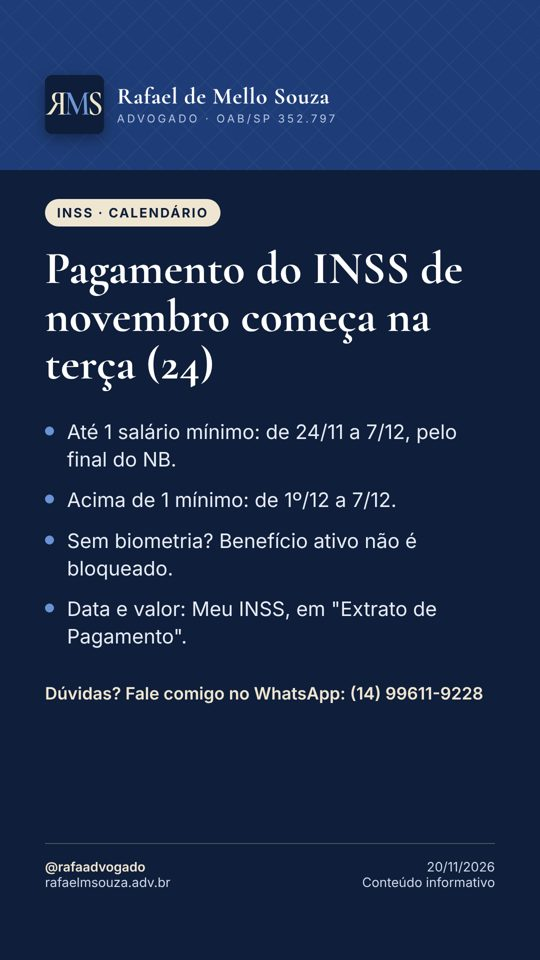
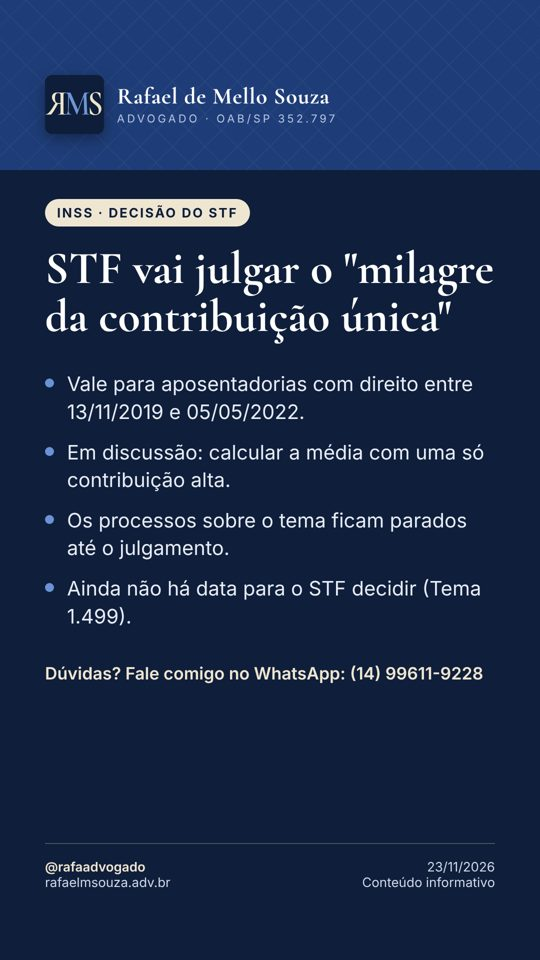
Notícia 23/11/2026: STF vai julgar o milagre da contribuição única (Tema 1.499)
Claude-Session: https://claude.ai/code/session_01TjRXWga78bz1b3B69nQ2d7

Changed region(s): [[0.0889, 0.1875, 0.9185, 0.75]]

diff --git a/noticias/index.html b/noticias/index.html
@@ -14,4 +14,4 @@ h1{font-family:Georgia,serif;color:#0f1e3a;font-size:28px;line-height:1.25;margi
 .btn.s{background:#fff;color:#0f1e3a;border:1px solid #e3dccb}.lista a{text-decoration:none}.lista div{border-top:1px solid #e3dccb;padding:14px 0}.lista div:first-child{border-top:0}
 footer{text-align:center;font-size:13px;color:#5d6676;padding:10px 16px 30px}</style></head><body>
 <header><a href="/"><img src="/icon.png" alt=""></a><a href="/"><div class="n">Rafael de Mello Souza</div><div class="o">ADVOGADO · OAB/SP 352.797</div></a></header>
-<nav><a href="/#inicio">Início</a><a href="/#quem-somos">Quem somos</a><a href="/noticias/">Notícias</a><a href="/#consulta">Consultar processo</a></nav><main><div class="card"><h1>Notícias</h1><p class="sub">INSS e Direito Previdenciário, toda segunda, quarta e sexta.</p><div class="lista"><div><span class="d">20/11/2026</span><h2><a href="/noticias/2026-11-20-inss-calendario-pagamento-novembro-biometria.html">Pagamento do INSS de novembro começa na terça (24); falta de biometria não bloqueia benefício</a></h2><span class="sub">A folha de novembro do INSS começa a ser paga na terça-feira, 24/11, e vai até 7/12. Para quem recebe até um salário mínimo, a data segue o último número do benefício antes do…</span></div><div><span class="d">19/11/2026</span><h2><a href="/noticias/2026-11-19-inss-exigencia-30-dias-portaria-1363.html">INSS: quem recebe exigência tem 30 dias para entregar documentos</a></h2><span class="sub">A Portaria DIRBEN/INSS nº 1.363/2026, publicada no Diário Oficial em 16/11/2026 e já em vigor, deixou claro o prazo para cumprir as exigências do INSS: quando o instituto pede um…</span></div><div><span class="d">18/11/2026</span><h2><a href="/noticias/2026-11-18-aposentadoria-regras-transicao-2027.html">Aposentadoria do INSS: duas regras de transição ficam mais exigentes em 2027</a></h2><span class="sub">Em 1º de janeiro de 2027, duas regras de transição da Reforma da Previdência sobem de patamar. Na regra dos pontos (idade + tempo de contribuição), a exigência passa de 93 para 94…</span></div><div><span class="d">17/11/2026</span><h2><a href="/noticias/2026-11-17-bpc-nao-pode-contribuir-facultativo-baixa-renda.html">Quem recebe BPC não pode pagar o INSS como baixa renda (5%)</a></h2><span class="sub">Quem recebe o BPC/LOAS pode contribuir para o INSS, mas não na modalidade de facultativo de baixa renda, com alíquota de 5%. Em 16/10/2026, a Turma Regional de Uniformização dos…</span></div><div><span class="d">16/11/2026</span><h2><a href="/noticias/2026-11-16-14-salario-inss-nao-aprovado-2026.html">14º salário do INSS: não há pagamento previsto em 2026</a></h2><span class="sub">Mensagens nas redes sociais falam em um &quot;14º salário&quot; para aposentados e pensionistas ainda neste ano, mas não existe lei que autorize esse pagamento. Há projetos sobre o tema na…</span></div><div><span class="d">13/11/2026</span><h2><a href="/noticias/2026-11-13-13-salario-proporcional-novos-beneficios-inss.html">Começou a receber do INSS depois de abril? O 13º vem na folha de novembro</a></h2><span class="sub">Quem passou a receber aposentadoria, pensão por morte, auxílio-acidente ou auxílio por incapacidade temporária a partir de maio de 2026 não entrou na antecipação do 13º feita em…</span></div><div><span class="d">12/11/2026</span><h2><a href="/noticias/2026-11-12-stf-vai-julgar-calculo-aposentadoria-pcd-tema-1497.html">STF vai julgar o cálculo da aposentadoria da pessoa com deficiência</a></h2><span class="sub">O STF reconheceu, por unanimidade, a repercussão geral do Tema 1497, que discute como deve ser calculada a aposentadoria da pessoa com deficiência depois da Reforma da…</span></div><div><span class="d">11/11/2026</span><h2><a href="/noticias/2026-11-11-inss-auxilio-doenca-negado-atestmed-reanalise-10-dias.html">Auxílio-doença negado pelo Atestmed: INSS abre reanálise em 10 dias</a></h2><span class="sub">Quem teve o auxílio por incapacidade temporária (antigo auxílio-doença) negado só pela análise de documentos do Atestmed pode pedir uma reanálise em até 10 dias, contados da…</span></div><div><span class="d">10/11/2026</span><h2><a href="/noticias/2026-11-10-stf-tema-1497-calculo-aposentadoria-pessoa-com-deficiencia.html">STF decide hoje se julgará o cálculo da aposentadoria da pessoa com deficiência</a></h2><span class="sub">Termina hoje (10/11) a votação no Plenário Virtual do STF sobre a repercussão geral do Tema 1497 (RE 1.597.638), que discute os critérios de cálculo da aposentadoria da pessoa com…</span></div><div><span class="d">10/11/2026</span><h2><a href="/noticias/2026-11-10-podcast-aposentadoria-especial-sem-idade-minima.html">Podcast: aposentadoria especial sem idade mínima após decisão do STF</a></h2><span class="sub">Novo episódio do podcast explica a decisão do STF na ADI 6309, que derrubou a idade mínima de 55, 58 e 60 anos criada pela Reforma da Previdência para a aposentadoria especial. O…</span></div><div><span class="d">10/11/2026</span><h2><a href="/noticias/2026-11-10-inss-piso-aposentadoria-2027-1741.html">INSS: piso das aposentadorias deve ir a R$ 1.741 em 2027</a></h2><span class="sub">O Orçamento de 2027 enviado pelo governo prevê salário mínimo de R$ 1.741, R$ 120 a mais que os R$ 1.621 atuais (alta de cerca de 7,4%). Aposentadorias, pensões e o BPC de um…</span></div><div><span class="d">09/11/2026</span><h2><a href="/noticias/2026-11-09-inss-biometria-bloqueio-falso.html">INSS: é falso que benefício será bloqueado sem biometria em novembro</a></h2><span class="sub">Circulam mensagens dizendo que aposentadorias e pensões serão bloqueadas em 20 de novembro por falta de biometria. O INSS informa que não existe prazo geral desse tipo: a…</span></div><div><span class="d">08/11/2026</span><h2><a href="/noticias/2026-11-08-calendario-novembro.html">INSS: pagamentos de novembro começam no dia 24</a></h2><span class="sub">Os benefícios referentes a novembro começam a ser pagos em 24/11 para quem recebe até um salário mínimo e em 1º/12 para quem recebe acima disso. Os depósitos vão até 7 de…</span></div></div></div></main><footer>Rafael de Mello Souza · Advogado · OAB/SP nº 352.797<br>© 2026 Rafael de Mello Souza – Advocacia. Todos os direitos reservados.<br>Site e sistema desenvolvidos por Rafael de Mello Souza.<br>Conteúdo informativo, não constitui consultoria jurídica. Cada caso tem particularidades. · <a href="/privacidade.html">Privacidade</a></footer></body></html>
+<nav><a href="/#inicio">Início</a><a href="/#quem-somos">Quem somos</a><a href="/noticias/">Notícias</a><a href="/#consulta">Consultar processo</a></nav><main><div class="card"><h1>Notícias</h1><p class="sub">INSS e Direito Previdenciário, toda segunda, quarta e sexta.</p><div class="lista"><div><span class="d">23/11/2026</span><h2><a href="/noticias/2026-11-23-stf-milagre-contribuicao-unica-divisor-minimo-tema-1499.html">STF vai julgar o &quot;milagre da contribuição única&quot; na aposentadoria (Tema 1.499)</a></h2><span class="sub">O Supremo Tribunal Federal reconheceu a repercussão geral do Tema 1.499 (RE 1.624.991) e vai decidir se é válido calcular a aposentadoria com base em uma única contribuição de…</span></div><div><span class="d">20/11/2026</span><h2><a href="/noticias/2026-11-20-inss-calendario-pagamento-novembro-biometria.html">Pagamento do INSS de novembro começa na terça (24); falta de biometria não bloqueia benefício</a></h2><span class="sub">A folha de novembro do INSS começa a ser paga na terça-feira, 24/11, e vai até 7/12. Para quem recebe até um salário mínimo, a data segue o último número do benefício antes do…</span></div><div><span class="d">19/11/2026</span><h2><a href="/noticias/2026-11-19-inss-exigencia-30-dias-portaria-1363.html">INSS: quem recebe exigência tem 30 dias para entregar documentos</a></h2><span class="sub">A Portaria DIRBEN/INSS nº 1.363/2026, publicada no Diário Oficial em 16/11/2026 e já em vigor, deixou claro o prazo para cumprir as exigências do INSS: quando o instituto pede um…</span></div><div><span class="d">18/11/2026</span><h2><a href="/noticias/2026-11-18-aposentadoria-regras-transicao-2027.html">Aposentadoria do INSS: duas regras de transição ficam mais exigentes em 2027</a></h2><span class="sub">Em 1º de janeiro de 2027, duas regras de transição da Reforma da Previdência sobem de patamar. Na regra dos pontos (idade + tempo de contribuição), a exigência passa de 93 para 94…</span></div><div><span class="d">17/11/2026</span><h2><a href="/noticias/2026-11-17-bpc-nao-pode-contribuir-facultativo-baixa-renda.html">Quem recebe BPC não pode pagar o INSS como baixa renda (5%)</a></h2><span class="sub">Quem recebe o BPC/LOAS pode contribuir para o INSS, mas não na modalidade de facultativo de baixa renda, com alíquota de 5%. Em 16/10/2026, a Turma Regional de Uniformização dos…</span></div><div><span class="d">16/11/2026</span><h2><a href="/noticias/2026-11-16-14-salario-inss-nao-aprovado-2026.html">14º salário do INSS: não há pagamento previsto em 2026</a></h2><span class="sub">Mensagens nas redes sociais falam em um &quot;14º salário&quot; para aposentados e pensionistas ainda neste ano, mas não existe lei que autorize esse pagamento. Há projetos sobre o tema na…</span></div><div><span class="d">13/11/2026</span><h2><a href="/noticias/2026-11-13-13-salario-proporcional-novos-beneficios-inss.html">Começou a receber do INSS depois de abril? O 13º vem na folha de novembro</a></h2><span class="sub">Quem passou a receber aposentadoria, pensão por morte, auxílio-acidente ou auxílio por incapacidade temporária a partir de maio de 2026 não entrou na antecipação do 13º feita em…</span></div><div><span class="d">12/11/2026</span><h2><a href="/noticias/2026-11-12-stf-vai-julgar-calculo-aposentadoria-pcd-tema-1497.html">STF vai julgar o cálculo da aposentadoria da pessoa com deficiência</a></h2><span class="sub">O STF reconheceu, por unanimidade, a repercussão geral do Tema 1497, que discute como deve ser calculada a aposentadoria da pessoa com deficiência depois da Reforma da…</span></div><div><span class="d">11/11/2026</span><h2><a href="/noticias/2026-11-11-inss-auxilio-doenca-negado-atestmed-reanalise-10-dias.html">Auxílio-doença negado pelo Atestmed: INSS abre reanálise em 10 dias</a></h2><span class="sub">Quem teve o auxílio por incapacidade temporária (antigo auxílio-doença) negado só pela análise de documentos do Atestmed pode pedir uma reanálise em até 10 dias, contados da…</span></div><div><span class="d">10/11/2026</span><h2><a href="/noticias/2026-11-10-stf-tema-1497-calculo-aposentadoria-pessoa-com-deficiencia.html">STF decide hoje se julgará o cálculo da aposentadoria da pessoa com deficiência</a></h2><span class="sub">Termina hoje (10/11) a votação no Plenário Virtual do STF sobre a repercussão geral do Tema 1497 (RE 1.597.638), que discute os critérios de cálculo da aposentadoria da pessoa com…</span></div><div><span class="d">10/11/2026</span><h2><a href="/noticias/2026-11-10-podcast-aposentadoria-especial-sem-idade-minima.html">Podcast: aposentadoria especial sem idade mínima após decisão do STF</a></h2><span class="sub">Novo episódio do podcast explica a decisão do STF na ADI 6309, que derrubou a idade mínima de 55, 58 e 60 anos criada pela Reforma da Previdência para a aposentadoria especial. O…</span></div><div><span class="d">10/11/2026</span><h2><a href="/noticias/2026-11-10-inss-piso-aposentadoria-2027-1741.html">INSS: piso das aposentadorias deve ir a R$ 1.741 em 2027</a></h2><span class="sub">O Orçamento de 2027 enviado pelo governo prevê salário mínimo de R$ 1.741, R$ 120 a mais que os R$ 1.621 atuais (alta de cerca de 7,4%). Aposentadorias, pensões e o BPC de um…</span></div><div><span class="d">09/11/2026</span><h2><a href="/noticias/2026-11-09-inss-biometria-bloqueio-falso.html">INSS: é falso que benefício será bloqueado sem biometria em novembro</a></h2><span class="sub">Circulam mensagens dizendo que aposentadorias e pensões serão bloqueadas em 20 de novembro por falta de biometria. O INSS informa que não existe prazo geral desse tipo: a…</span></div><div><span class="d">08/11/2026</span><h2><a href="/noticias/2026-11-08-calendario-novembro.html">INSS: pagamentos de novembro começam no dia 24</a></h2><span class="sub">Os benefícios referentes a novembro começam a ser pagos em 24/11 para quem recebe até um salário mínimo e em 1º/12 para quem recebe acima disso. Os depósitos vão até 7 de…</span></div></div></div></main><footer>Rafael de Mello Souza · Advogado · OAB/SP nº 352.797<br>© 2026 Rafael de Mello Souza – Advocacia. Todos os direitos reservados.<br>Site e sistema desenvolvidos por Rafael de Mello Souza.<br>Conteúdo informativo, não constitui consultoria jurídica. Cada caso tem particularidades. · <a href="/privacidade.html">Privacidade</a></footer></body></html>

diff --git a/noticias/2026-11-23-stf-milagre-contribuicao-unica-divisor-minimo-tema-1499.html b/noticias/2026-11-23-stf-milagre-contribuicao-unica-divisor-minimo-tema-1499.html
@@ -1,0 +1,19 @@
+<!DOCTYPE html><html lang="pt-BR"><head><meta charset="utf-8">
+<meta name="viewport" content="width=device-width, initial-scale=1">
+<title>STF vai julgar o &quot;milagre da contribuição única&quot; na aposentadoria (Tema 1.499) | Rafael de Mello Souza – Advogado</title><meta name="description" content="O Supremo Tribunal Federal reconheceu a repercussão geral do Tema 1.499 (RE 1.624.991) e vai decidir se é válido calcular a aposentadoria com base em uma…"><link rel="canonical" href="https://rafaelmsouza.adv.br/noticias/2026-11-23-stf-milagre-contribuicao-unica-divisor-minimo-tema-1499.html">
+<meta property="og:type" content="article"><meta property="og:title" content="STF vai julgar o &quot;milagre da contribuição única&quot; na aposentadoria (Tema 1.499) | Rafael de Mello Souza – Advogado"><meta property="og:description" content="O Supremo Tribunal Federal reconheceu a repercussão geral do Tema 1.499 (RE 1.624.991) e vai decidir se é válido calcular a aposentadoria com base em uma…"><meta property="og:url" content="https://rafaelmsouza.adv.br/noticias/2026-11-23-stf-milagre-contribuicao-unica-divisor-minimo-tema-1499.html"><meta property="og:image" content="https://rafaelmsouza.adv.br/cartao.jpg"><meta property="og:locale" content="pt_BR">
+<link rel="icon" href="/icon.png"><meta name="theme-color" content="#0f1e3a">
+<script defer src="https://cloud.umami.is/script.js" data-website-id="e1ed7d73-fa33-4e80-996a-a7cae57abea0"></script><script type="application/ld+json">{"@context": "https://schema.org", "@type": "NewsArticle", "headline": "STF vai julgar o \"milagre da contribuição única\" na aposentadoria (Tema 1.499)", "description": "O Supremo Tribunal Federal reconheceu a repercussão geral do Tema 1.499 (RE 1.624.991) e vai decidir se é válido calcular a aposentadoria com base em uma…", "datePublished": "2026-11-23", "dateModified": "2026-11-23", "inLanguage": "pt-BR", "mainEntityOfPage": "https://rafaelmsouza.adv.br/noticias/2026-11-23-stf-milagre-contribuicao-unica-divisor-minimo-tema-1499.html", "image": ["https://rafaelmsouza.adv.br/cartao.jpg"], "author": {"@type": "Person", "name": "Rafael de Mello Souza", "jobTitle": "Advogado", "url": "https://rafaelmsouza.adv.br"}, "publisher": {"@type": "Organization", "name": "Rafael de Mello Souza – Advocacia", "logo": {"@type": "ImageObject", "url": "https://rafaelmsouza.adv.br/icon.png"}}}</script>
+<style>*{box-sizing:border-box}body{margin:0;background:#f7f3ea;color:#1b2333;font:17px/1.6 -apple-system,BlinkMacSystemFont,"Segoe UI",Roboto,Helvetica,Arial,sans-serif}
+a{color:#1e3d78}header{background:#0f1e3a;color:#efe6d2;padding:16px 20px;display:flex;align-items:center;gap:14px}
+header img{width:44px;height:44px;border-radius:8px}header a{color:inherit;text-decoration:none}.n{font-family:Georgia,serif;font-size:19px}.o{font-size:12px;letter-spacing:2px;color:#b9c6e4}
+nav{background:#1e3d78;display:flex;overflow-x:auto;padding:0 8px}nav a{color:#dfe7f6;text-decoration:none;padding:11px 12px;font-size:15px;white-space:nowrap}
+main{max-width:720px;margin:0 auto;padding:22px 16px 110px}article,.card{background:#fff;border:1px solid #e3dccb;border-radius:16px;padding:22px}
+h1{font-family:Georgia,serif;color:#0f1e3a;font-size:28px;line-height:1.25;margin:4px 0 10px}h2{font-family:Georgia,serif;color:#0f1e3a;font-size:20px;margin:0 0 4px}
+.d{color:#5d6676;font-size:14px;font-weight:600}.sub{color:#5d6676;font-size:14px}.btn{display:inline-block;background:#1f9d55;color:#fff;text-decoration:none;font-weight:700;padding:12px 18px;border-radius:10px;margin:10px 8px 0 0}
+.btn.s{background:#fff;color:#0f1e3a;border:1px solid #e3dccb}.lista a{text-decoration:none}.lista div{border-top:1px solid #e3dccb;padding:14px 0}.lista div:first-child{border-top:0}
+footer{text-align:center;font-size:13px;color:#5d6676;padding:10px 16px 30px}</style></head><body>
+<header><a href="/"><img src="/icon.png" alt=""></a><a href="/"><div class="n">Rafael de Mello Souza</div><div class="o">ADVOGADO · OAB/SP 352.797</div></a></header>
+<nav><a href="/#inicio">Início</a><a href="/#quem-somos">Quem somos</a><a href="/noticias/">Notícias</a><a href="/#consulta">Consultar processo</a></nav><main>
+<article><div class="d">23/11/2026 · Notícias</div><h1>STF vai julgar o &quot;milagre da contribuição única&quot; na aposentadoria (Tema 1.499)</h1><p>O Supremo Tribunal Federal reconheceu a repercussão geral do Tema 1.499 (RE 1.624.991) e vai decidir se é válido calcular a aposentadoria com base em uma única contribuição de valor alto, depois do descarte das contribuições menores – tese conhecida como &quot;milagre da contribuição única&quot;. A discussão envolve as aposentadorias cujos requisitos foram cumpridos entre 13/11/2019, data da Reforma da Previdência, e 05/05/2022, quando a Lei 14.331/2022 voltou a prever o divisor mínimo no cálculo da média.</p><p>A TNU e o STJ já tinham admitido o cálculo sem o divisor mínimo nesse período, mas o INSS recorreu, defendendo que a regra continuou valendo de forma implícita. Até o julgamento do mérito, que ainda não tem data, os processos sobre o assunto ficam suspensos em todo o país. Quem se aposentou ou cumpriu os requisitos nesse intervalo pode conferir no Meu INSS a carta de concessão e o cálculo do benefício.</p><p class="sub">Fonte: <a href="https://noticias.stf.jus.br/postsnoticias/stf-vai-julgar-validade-do-divisor-minimo-na-aposentadoria/" target="_blank" rel="noopener nofollow" data-umami-event="noticia-fonte">STF – STF vai julgar validade do divisor mínimo na aposentadoria</a></p>
+<a class="btn" href="https://wa.me/5514996119228?text=Ol%C3%A1%2C%20Dr.%20Rafael%21%20Li%20a%20not%C3%ADcia%20%22STF%20vai%20julgar%20o%20%22milagre%20da%20contribui%C3%A7%C3%A3o%20%C3%BAnica%22%20na%20aposentadoria%20%28Tema%201.499%29%22%20no%20seu%20site%20e%20tenho%20uma%20d%C3%BAvida." target="_blank" rel="noopener" data-umami-event="whatsapp">💬 Tirar dúvida no WhatsApp</a><a class="btn s" href="/noticias/">Ver todas as notícias</a></article></main><footer>Rafael de Mello Souza · Advogado · OAB/SP nº 352.797<br>© 2026 Rafael de Mello Souza – Advocacia. Todos os direitos reservados.<br>Site e sistema desenvolvidos por Rafael de Mello Souza.<br>Conteúdo informativo, não constitui consultoria jurídica. Cada caso tem particularidades. · <a href="/privacidade.html">Privacidade</a></footer></body></html>
